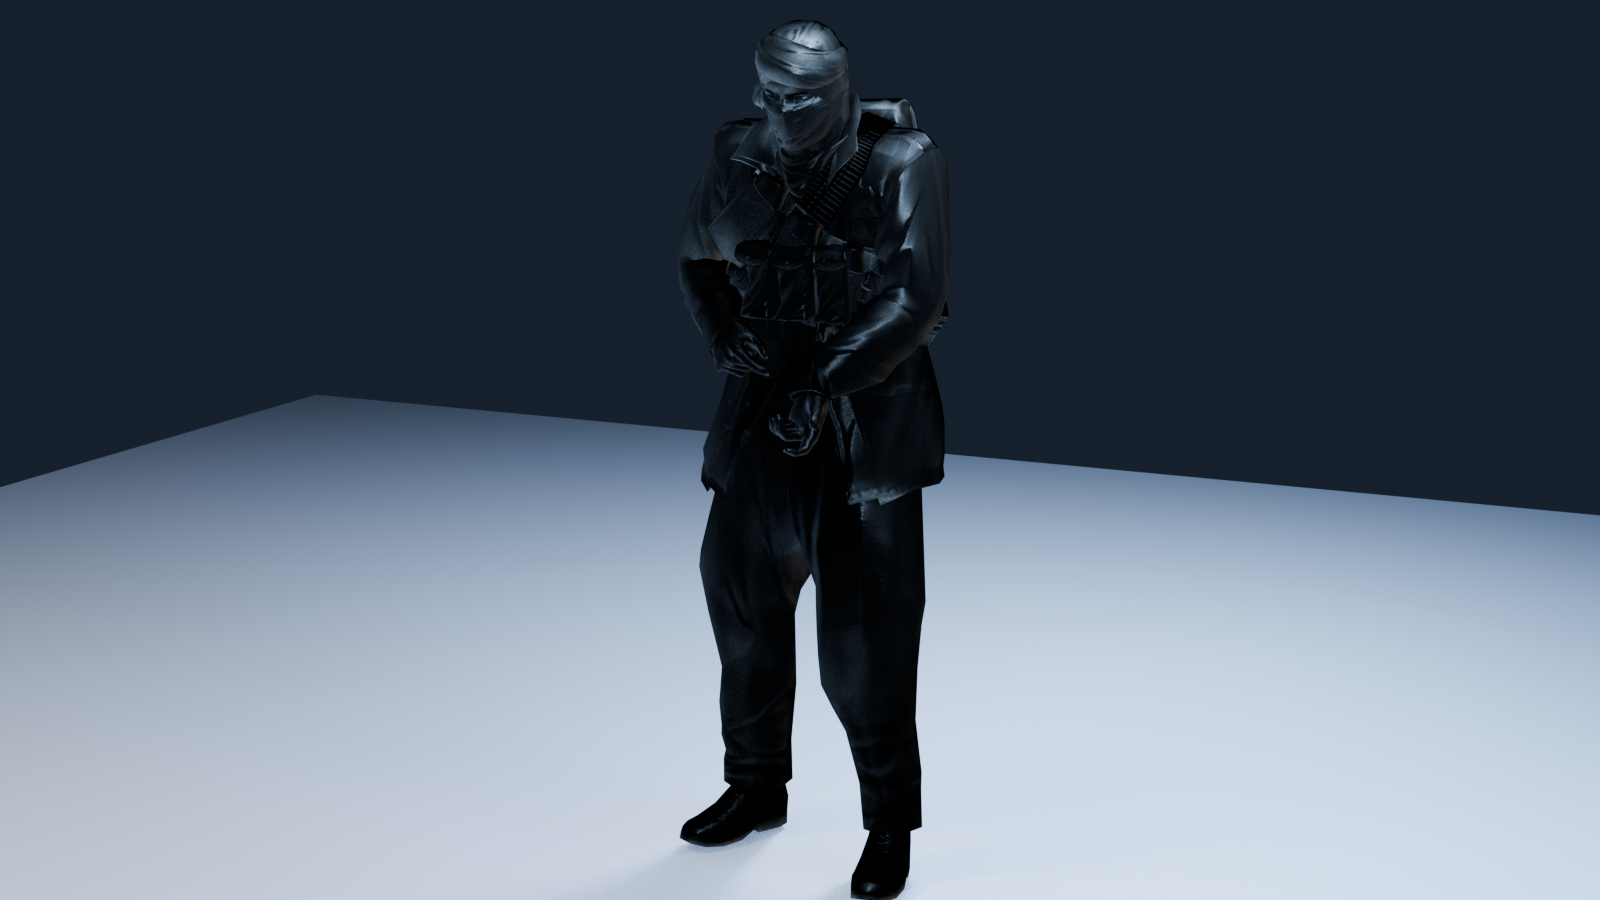
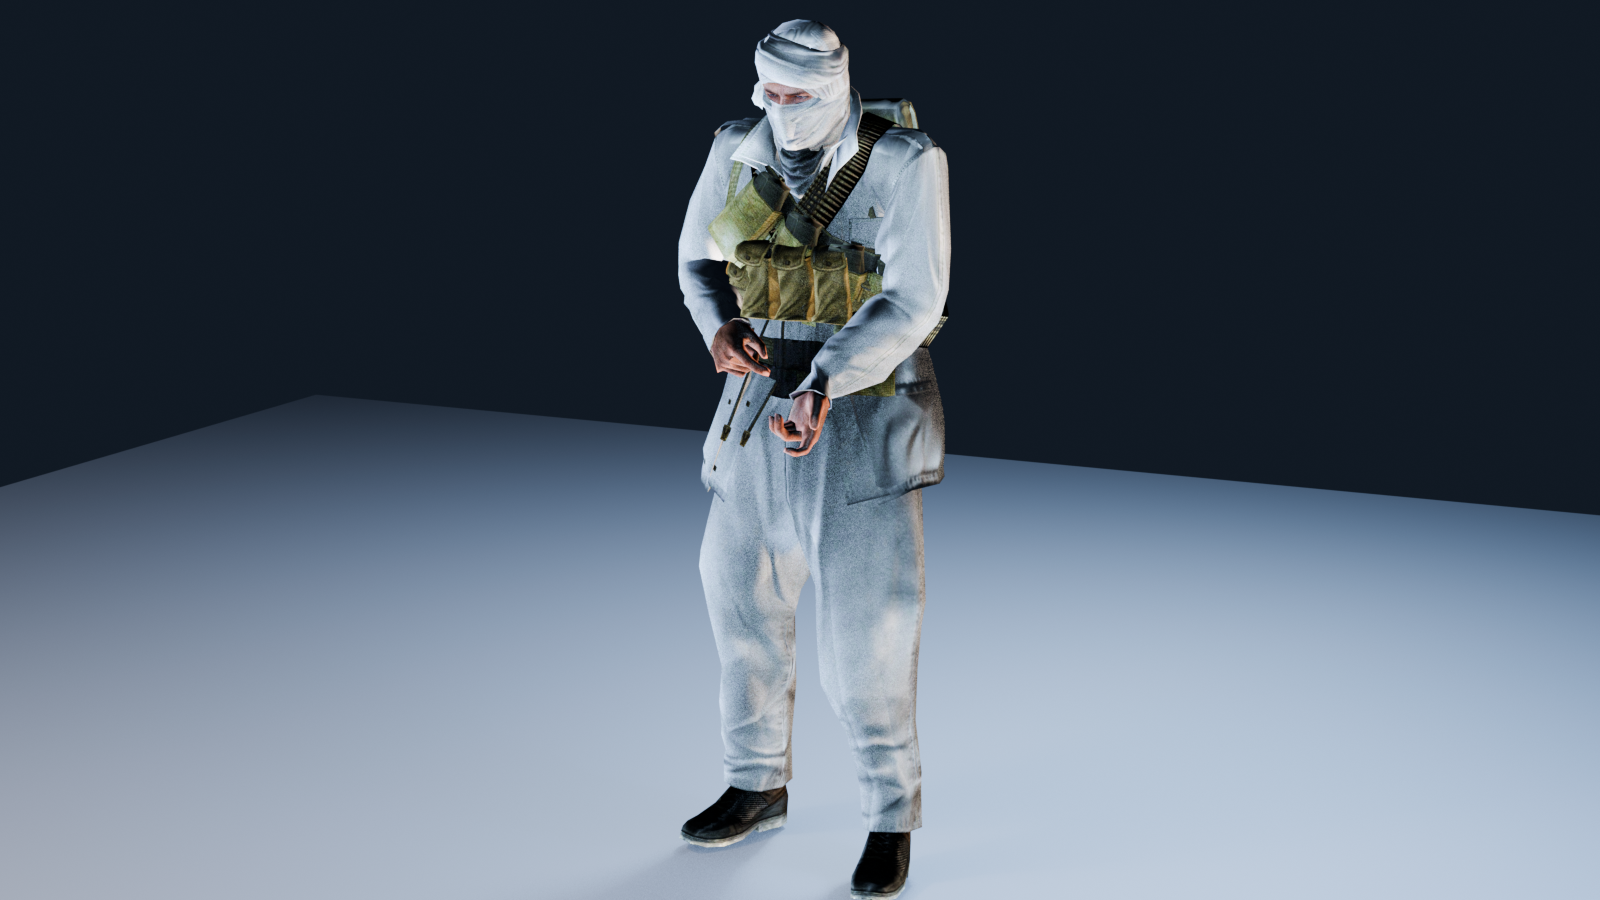
Fix bundled aliases and character materials

diff --git a/mgs4_remastered_importer/blender_import.py b/mgs4_remastered_importer/blender_import.py
@@ -55,6 +55,12 @@ class _MaterialTextureOutputs:
     missing_count: int = 0
 
 
+@dataclass(frozen=True, slots=True)
+class _MaterialVertexColorSupport:
+    rgb: bool
+    alpha: bool
+
+
 def _game_vector(
     value: tuple[float, float, float] | tuple[float, float, float, float],
     scale: float = 1.0,
@@ -464,17 +470,51 @@ def _new_texture_nodes(
     return outputs
 
 
-def _material_vertex_color_support(model: MdnModel) -> tuple[bool, ...]:
-    usage: list[list[bool]] = [[] for _material in model.materials]
+def _material_vertex_color_support(
+    model: MdnModel,
+) -> tuple[_MaterialVertexColorSupport, ...]:
+    usage: list[list[_MaterialVertexColorSupport]] = [
+        [] for _material in model.materials
+    ]
     for geometry in model.meshes:
-        has_vertex_color = (
+        material_vertices: dict[int, set[int]] = {}
+        for triangle, material_index in zip(
+            geometry.triangles,
+            geometry.triangle_materials,
+        ):
+            if 0 <= material_index < len(usage):
+                material_vertices.setdefault(material_index, set()).update(
+                    triangle
+                )
+
+        has_vertex_colors = (
             bool(geometry.colors)
             and len(geometry.colors) == len(geometry.vertices)
         )
-        for material_index in set(geometry.triangle_materials):
-            if 0 <= material_index < len(usage):
-                usage[material_index].append(has_vertex_color)
-    return tuple(bool(values) and all(values) for values in usage)
+        for material_index, vertex_indices in material_vertices.items():
+            if not has_vertex_colors:
+                support = _MaterialVertexColorSupport(False, False)
+            else:
+                colors = (
+                    geometry.colors[vertex_index]
+                    for vertex_index in vertex_indices
+                )
+                color_values = tuple(colors)
+                support = _MaterialVertexColorSupport(
+                    rgb=any(
+                        any(abs(component) > 1e-6 for component in color[:3])
+                        for color in color_values
+                    ),
+                    alpha=any(abs(color[3]) > 1e-6 for color in color_values),
+                )
+            usage[material_index].append(support)
+    return tuple(
+        _MaterialVertexColorSupport(
+            rgb=bool(values) and all(value.rgb for value in values),
+            alpha=bool(values) and all(value.alpha for value in values),
+        )
+        for values in usage
+    )
 
 
 def _connect_material_presentation(
@@ -483,12 +523,12 @@ def _connect_material_presentation(
     diffuse: tuple[float, float, float, float],
     texture_outputs: _MaterialTextureOutputs,
     options: MaterialImportOptions,
-    vertex_color_available: bool,
+    vertex_support: _MaterialVertexColorSupport,
 ) -> None:
     nodes = material.node_tree.nodes
     links = material.node_tree.links
-    use_vertex_color = options.use_vertex_color and vertex_color_available
-    use_vertex_alpha = options.use_vertex_alpha and vertex_color_available
+    use_vertex_color = options.use_vertex_color and vertex_support.rgb
+    use_vertex_alpha = options.use_vertex_alpha and vertex_support.alpha
     vertex_node = None
     presentation_frame = None
 
@@ -545,7 +585,8 @@ def _connect_material_presentation(
         _set_transparent(material)
 
     material["mgs4_layer_mode"] = options.layer_mode
-    material["mgs4_vertex_color_available"] = vertex_color_available
+    material["mgs4_vertex_color_available"] = vertex_support.rgb
+    material["mgs4_vertex_alpha_available"] = vertex_support.alpha
     material["mgs4_vertex_color_enabled"] = use_vertex_color
     material["mgs4_vertex_alpha_enabled"] = use_vertex_alpha
     material["mgs4_missing_texture_count"] = texture_outputs.missing_count

diff --git a/tests/blender_extension_smoke.py b/tests/blender_extension_smoke.py
@@ -64,6 +64,19 @@ with tempfile.TemporaryDirectory() as temporary:
 
     settings.asset_kind = "MODEL"
     assert len(settings.results) > 6_000
+    alias_item = next(
+        item
+        for item in settings.results
+        if item.virtual_path
+        == "common/stage/stage01/s01a00l/cache/00e46846.mdn"
+    )
+    assert settings.catalog_names_version
+    assert alias_item.resolved_name == "mem_def_b"
+    assert alias_item.name.startswith("mem_def_b  (00e46846.mdn)")
+    settings.search_text = "mem_def_b"
+    assert "mem_def_b" in settings.results[
+        settings.result_index
+    ].searchable_names.lower()
     settings.search_text = "00e46846.mdn"
     assert settings.search_text in settings.results[
         settings.result_index
@@ -83,6 +96,41 @@ with tempfile.TemporaryDirectory() as temporary:
     assert model_collection["mgs4_use_vertex_color"]
     assert not model_collection["mgs4_use_vertex_alpha"]
     assert model_collection["mgs4_highlight_missing_textures"]
+    character_materials = {
+        material
+        for obj in model_collection.all_objects
+        if obj.type == "MESH"
+        for material in obj.data.materials
+        if material is not None
+    }
+    assert character_materials
+    assert all(
+        not material["mgs4_vertex_color_available"]
+        and not material["mgs4_vertex_color_enabled"]
+        and not material["mgs4_vertex_alpha_enabled"]
+        for material in character_materials
+    )
+    assert any(
+        material["mgs4_vertex_alpha_available"]
+        for material in character_materials
+    )
+    for material in character_materials:
+        diffuse_nodes = [
+            node
+            for node in material.node_tree.nodes
+            if node.get("mgs4_role") == "diffuse"
+        ]
+        if not diffuse_nodes:
+            continue
+        principled = next(
+            node
+            for node in material.node_tree.nodes
+            if node.bl_idname == "ShaderNodeBsdfPrincipled"
+        )
+        assert (
+            principled.inputs["Base Color"].links[0].from_node
+            in diffuse_nodes
+        )
     armature = bpy.context.view_layer.objects.active
     assert armature is not None and armature.type == "ARMATURE"
     assert not armature.show_in_front

diff --git a/mgs4_remastered_importer/addon.py b/mgs4_remastered_importer/addon.py
@@ -63,6 +63,7 @@ BUNDLED_ASSET_NAMES = (
     / "resources"
     / "solideye_dictionary.txt"
 )
+BUNDLED_ASSET_NAMES_VERSION = "solideye-1.2-79b0aad6"
 USER_ASSET_NAMES = (
     Path(
         bpy.utils.user_resource(
@@ -176,6 +177,7 @@ class MGS4SceneSettings(PropertyGroup):
     result_index: IntProperty(default=0)
     catalog_root: StringProperty(options={"HIDDEN", "SKIP_SAVE"})
     catalog_kind: StringProperty(options={"HIDDEN", "SKIP_SAVE"})
+    catalog_names_version: StringProperty(options={"HIDDEN", "SKIP_SAVE"})
     catalog_error: StringProperty(options={"HIDDEN", "SKIP_SAVE"})
     scale: FloatProperty(
         name="Scale",
@@ -420,12 +422,14 @@ def _refresh_asset_results(
         not force
         and settings.catalog_root == preferences.game_root
         and settings.catalog_kind == settings.asset_kind
+        and settings.catalog_names_version == BUNDLED_ASSET_NAMES_VERSION
     ):
         return len(settings.results), settings.catalog_error
 
     settings.results.clear()
     settings.catalog_root = preferences.game_root
     settings.catalog_kind = settings.asset_kind
+    settings.catalog_names_version = ""
     settings.catalog_error = ""
     try:
         names = _asset_names(force=force)
@@ -441,6 +445,7 @@ def _refresh_asset_results(
     for asset in results:
         item = settings.results.add()
         _set_asset_result(item, asset, names)
+    settings.catalog_names_version = BUNDLED_ASSET_NAMES_VERSION
     _select_first_matching_result(settings)
     return len(results), ""
 
@@ -1423,6 +1428,8 @@ class MGS4_PT_importer(Panel):
         if (
             settings.catalog_root != preferences.game_root
             or settings.catalog_kind != settings.asset_kind
+            or settings.catalog_names_version
+            != BUNDLED_ASSET_NAMES_VERSION
         ):
             _schedule_asset_refresh(context.scene)
 
@@ -1519,6 +1526,7 @@ CLASSES = (
 
 
 def register():
+    _asset_names(force=True)
     for cls in CLASSES:
         bpy.utils.register_class(cls)
     bpy.types.Scene.mgs4_importer = PointerProperty(type=MGS4SceneSettings)

diff --git a/tests/blender_smoke.py b/tests/blender_smoke.py
@@ -198,6 +198,54 @@ with tempfile.TemporaryDirectory() as temporary:
     assert color_image["mgs4_interpretation"] == "COLOR"
     assert data_image["mgs4_interpretation"] == "DATA"
 
+    character_model = parse_mdn(
+        archive.fetch("common/stage/stage01/s01a00l/cache/00e46845.mdn")
+    )
+    character_existing = {
+        material.as_pointer() for material in bpy.data.materials
+    }
+    character = import_mdn_model(
+        bpy.context,
+        character_model,
+        name="MGS4_CHARACTER_MATERIALS",
+        resolver=resolver,
+    )
+    assert not character.warnings
+    character_materials = tuple(
+        material
+        for material in bpy.data.materials
+        if material.as_pointer() not in character_existing
+    )
+    assert character_materials
+    assert all(
+        not material["mgs4_vertex_color_available"]
+        and not material["mgs4_vertex_color_enabled"]
+        and material["mgs4_vertex_alpha_available"]
+        and not material["mgs4_vertex_alpha_enabled"]
+        for material in character_materials
+    )
+    character_diffuse_materials = [
+        material
+        for material in character_materials
+        if any(
+            node.get("mgs4_role") == "diffuse"
+            for node in material.node_tree.nodes
+        )
+    ]
+    assert character_diffuse_materials
+    for character_material in character_diffuse_materials:
+        character_principled = next(
+            node
+            for node in character_material.node_tree.nodes
+            if node.bl_idname == "ShaderNodeBsdfPrincipled"
+        )
+        assert (
+            character_principled.inputs["Base Color"]
+            .links[0]
+            .from_node.get("mgs4_role")
+            == "diffuse"
+        )
+
     layer_model = parse_mdn(
         archive.fetch("common/stage/slot/00000001/cache/0006860b.mdn")
     )

diff --git a/mgs4_remastered_importer/__init__.py b/mgs4_remastered_importer/__init__.py
@@ -1,7 +1,7 @@
 bl_info = {
     "name": "MGS4 Remastered Importer",
     "author": "MGS4 Blender Importer contributors",
-    "version": (1, 2, 0),
+    "version": (1, 2, 1),
     "blender": (5, 2, 0),
     "location": "File > Import and View3D > Sidebar > MGS4",
     "description": "Import MGS4 models, rigs, materials, stages, and animations",

diff --git a/README.md b/README.md
@@ -59,7 +59,7 @@ were added for the images.
 
 ## Install
 
-1. Build or use `dist/mgs4_remastered_importer-1.2.0.zip`.
+1. Build or use `dist/mgs4_remastered_importer-1.2.1.zip`.
 2. In Blender 5.2, open **Edit > Preferences > Extensions**.
 3. Use the menu in the upper-right and choose **Install from Disk**.
 4. Select the ZIP and enable **MGS4 Remastered Importer**.
@@ -86,7 +86,8 @@ installation is read-only.
    reloads name dictionaries when needed.
 4. Select a result and click **Import Selected MGS4 Asset**.
 
-The browser uses the incomplete Solideye name dictionary as a starting point.
+The bundled Solideye alias dictionary is loaded and validated automatically
+when the extension is enabled, then applied to the initial asset catalog.
 Resolved entries show the friendly identifier together with the original
 hashed filename. A hash with multiple dictionary candidates displays every
 candidate separated by `|` instead of silently choosing one.
@@ -115,9 +116,10 @@ Model, Stage Area, and Mission imports expose three presentation controls:
   layer texture to Base Color. It is a preview, not a reconstruction of the
   game's unknown layer-mask and blend semantics.
 - **Vertex Color RGB** multiplies Base Color by the mesh's `Color` attribute
-  when every mesh using that material has compatible vertex colors. It is
-  enabled by default. **Vertex Color Alpha** is an independent opacity option
-  and is disabled by default.
+  when every mesh using that material has compatible, meaningful RGB data.
+  All-zero legacy RGB channels are ignored so they cannot black out resolved
+  diffuse textures. It is enabled by default. **Vertex Color Alpha** is an
+  independent opacity option and is disabled by default.
 
 The same options are available for loose MDN imports. The add-on preference
 **Highlight Missing Textures** creates magenta checker Images and keeps the

diff --git a/docs/materials-and-textures.md b/docs/materials-and-textures.md
@@ -172,11 +172,14 @@ declared slots could not be resolved.
 When **Vertex Color RGB** is enabled, the `Color` corner attribute multiplies
 the selected diffuse or layer-preview source before Base Color. The importer
 only enables this connection when every mesh using that material has a valid
-color layer, avoiding unpredictable fallback values on mixed-use materials.
+color layer with meaningful RGB values. Legacy character meshes that store
+uniform zero in RGB but use alpha for separate data keep their diffuse texture
+connected directly instead of being multiplied to black.
 
 **Vertex Color Alpha** is independent and disabled by default. When enabled,
 it drives Alpha, multiplying an existing opacity texture when present, and
-enables blended rendering. Disabling alpha does not disable RGB tinting.
+enables blended rendering. RGB and alpha availability are evaluated
+independently, so disabling or rejecting RGB does not discard valid alpha.
 
 ## Texture lookup
 
@@ -249,7 +252,8 @@ Missing checker Images use
 | Material | `mgs4_name_hash` | Material name hash |
 | Material | `mgs4_texture_count` | Declared active texture count |
 | Material | `mgs4_layer_mode` | Conservative or first-layer presentation |
-| Material | `mgs4_vertex_color_available` | All users have a valid `Color` layer |
+| Material | `mgs4_vertex_color_available` | All users have meaningful vertex RGB |
+| Material | `mgs4_vertex_alpha_available` | All users have meaningful vertex alpha |
 | Material | `mgs4_vertex_color_enabled` | Vertex RGB is connected |
 | Material | `mgs4_vertex_alpha_enabled` | Vertex alpha is connected |
 | Material | `mgs4_missing_texture_count` | Number of unresolved texture slots |
